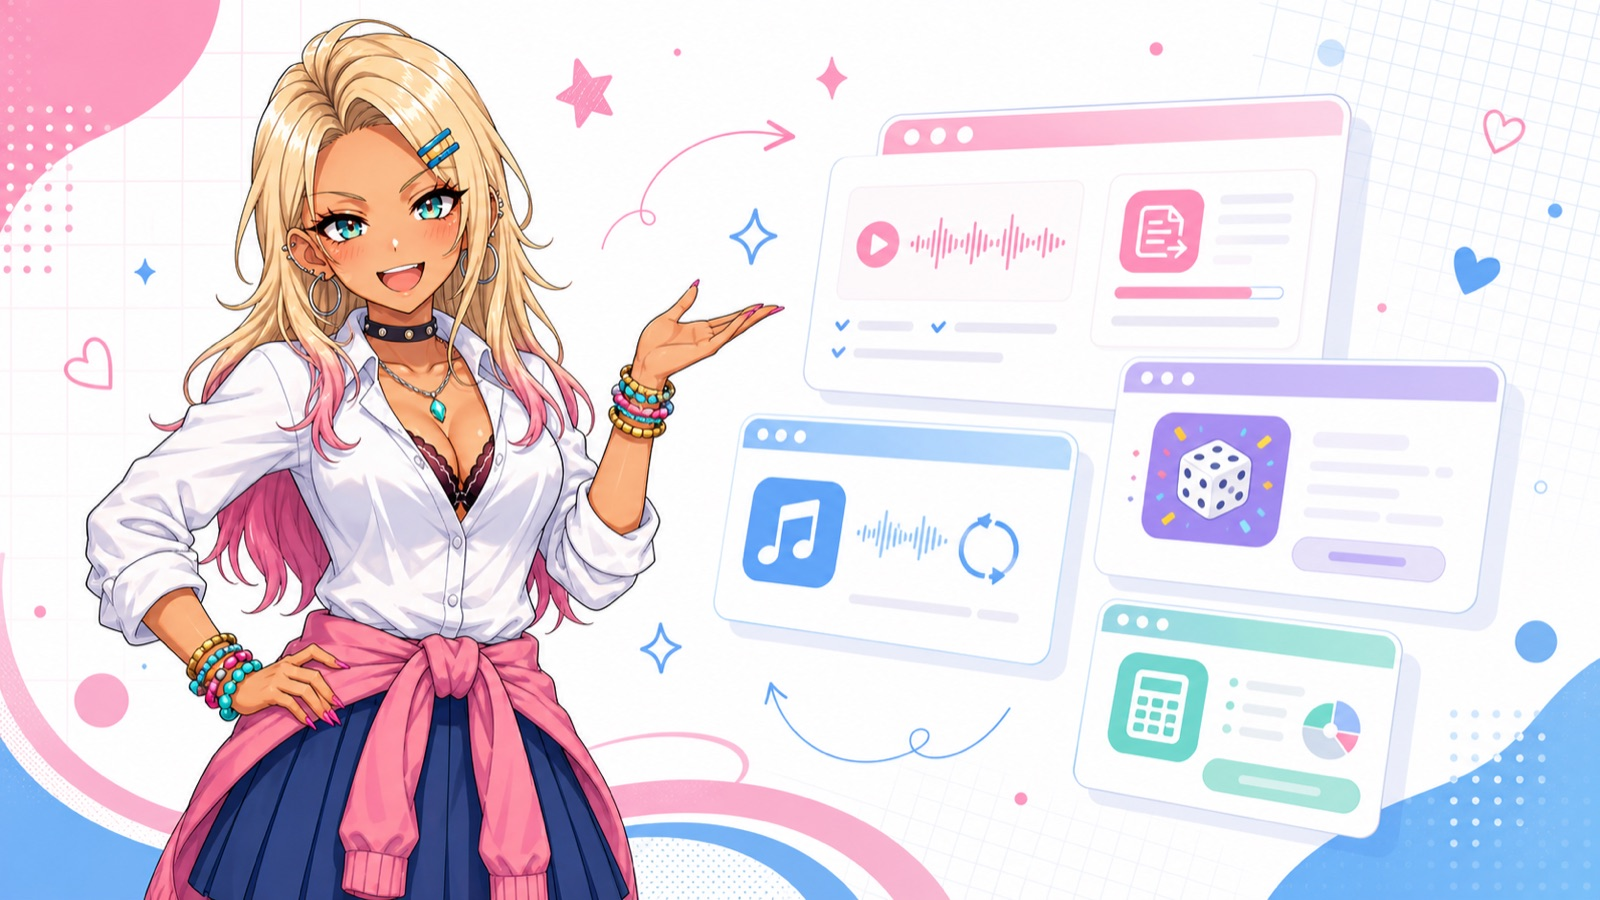
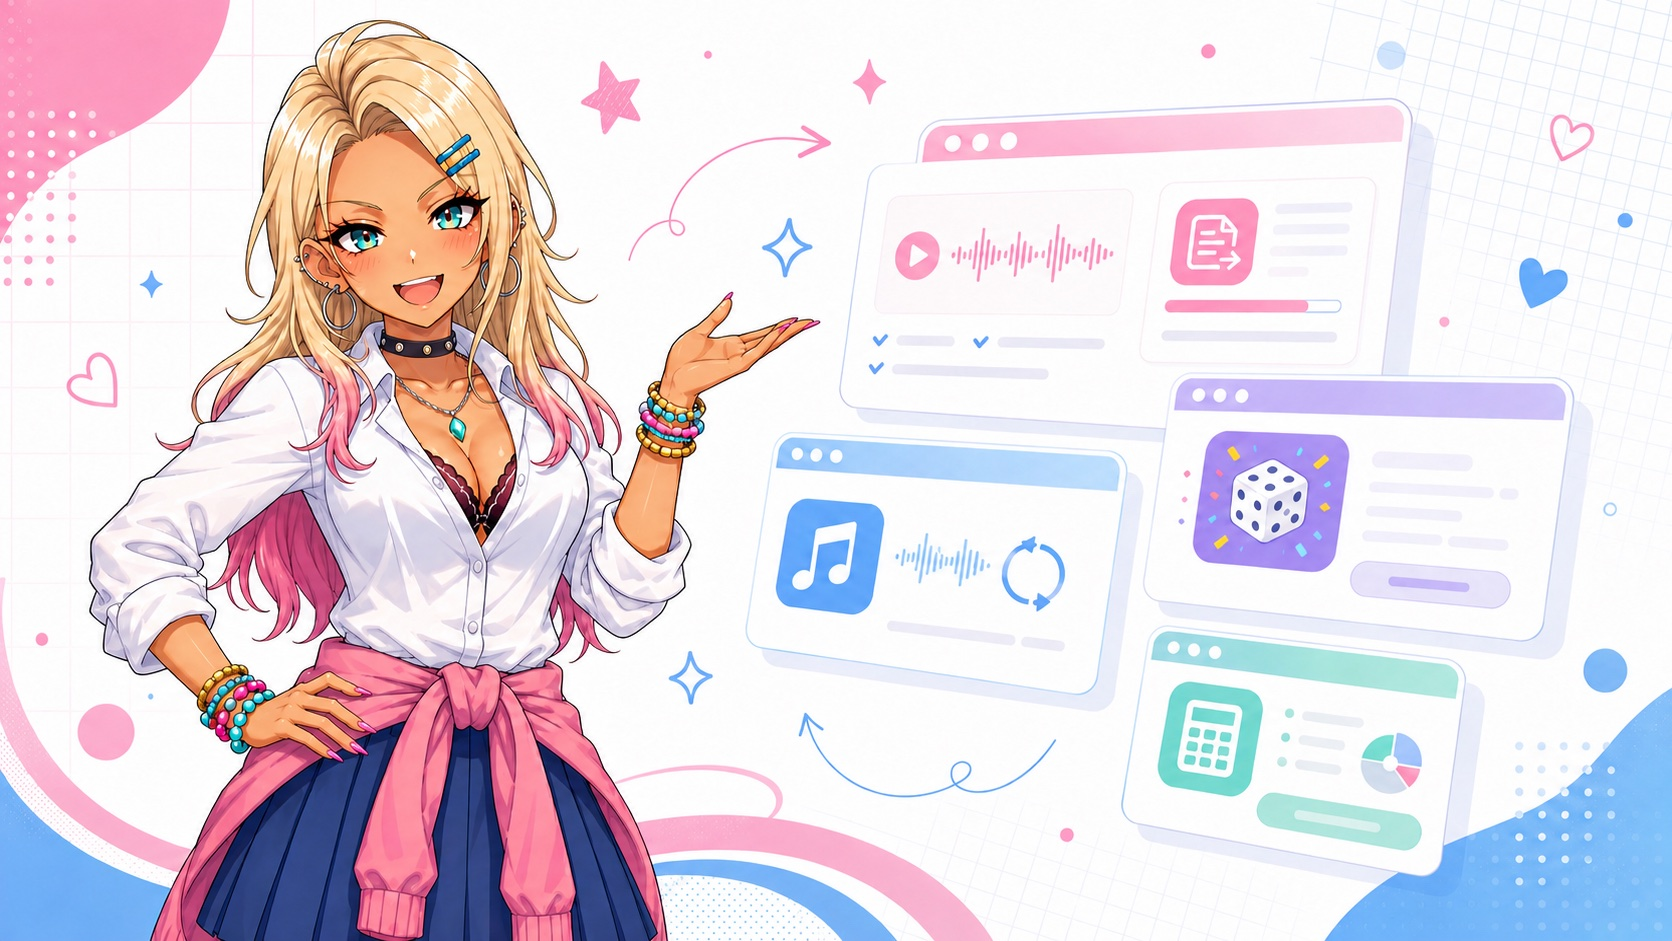
feat: トップ画像を新ビジュアルに差し替え＆コピー/デザインをギャル仕様に
- ヒーロー画像を新しいキャラビジュアルに更新（1672x941に合わせて寸法調整）
- 見出し・本文・ボタンのコピーをギャル調に強化
- 見出し/ハイライトをグラデ文字、CTAをグラデ+グローに
- カード角丸を拡大、背景にピンク/パープルのグラデを追加
- CSSキャッシュ対策でバージョンクエリを更新

diff --git a/index.html b/index.html
@@ -27,7 +27,7 @@
   <link rel="preconnect" href="https://fonts.gstatic.com" crossorigin />
   <link rel="preload" as="image" href="abs_mart_og_generated.jpg" fetchpriority="high" />
   <link href="https://fonts.googleapis.com/css2?family=Inter:wght@400;600;700;800&family=Noto+Sans+JP:wght@400;500;700;800&display=swap" rel="stylesheet" />
-  <link rel="stylesheet" href="style.css?v=20260615-pop2" />
+  <link rel="stylesheet" href="style.css?v=20260619-gal" />
   <script type="application/ld+json">
   {
     "@context": "https://schema.org",
@@ -101,18 +101,18 @@
     <section id="hero">
       <div class="hero-inner">
         <div class="hero-visual" data-reveal data-reveal-delay="90">
-          <img src="abs_mart_og_generated.jpg" alt="ABS MartのイメージキャラクターとWebツールのビジュアル" width="1600" height="900" fetchpriority="high" decoding="async" />
+          <img src="abs_mart_og_generated.jpg" alt="ABS MartのイメージキャラクターとWebツールのビジュアル" width="1672" height="941" fetchpriority="high" decoding="async" />
           <div class="hero-copy">
             <p class="eyebrow" data-reveal data-reveal-delay="60" lang="en"><span class="dot" aria-hidden="true"></span>ABS Mart — Browser Tools</p>
             <h1 class="hero-title" data-reveal data-reveal-delay="120">
-              その面倒、<br /><span class="hl hl-pink">ブラウザだけ</span>で<span class="hl hl-blue">秒で終わる♡</span>
+              てかその面倒、<br /><span class="hl hl-pink">ブラウザだけ</span>で<span class="hl hl-blue">ガチ秒で終わる♡</span>
             </h1>
             <p class="hero-lead" data-reveal data-reveal-delay="200">
-              字幕も音声も、抽選もお金の管理も全部おまかせ♡ インストールも登録もマジ不要、ブラウザだけで使える無料ツール集だよ〜！
+              字幕も音声も、抽選もお金の管理もぜーんぶおまかせでよくない？♡ インストールも登録もマジ要らんし、ブラウザだけでいけちゃう無料ツール集なんだけど〜！神じゃん？🫶
             </p>
             <div class="hero-actions" data-reveal data-reveal-delay="260">
               <a href="#works" class="btn btn-primary btn-lg">
-                <span>とりま使ってみて♡</span>
+                <span>とりま触ってみ？♡</span>
                 <svg aria-hidden="true" viewBox="0 0 24 24"><path d="M5 12h14M13 6l6 6-6 6"/></svg>
               </a>
             </div>
@@ -148,7 +148,7 @@
       <div class="section-inner">
         <div class="section-heading center" data-reveal>
           <p class="eyebrow" lang="en">Point</p>
-          <h2 class="section-title">選んで損なし♡ 3つのポイント</h2>
+          <h2 class="section-title">選ばなきゃ損じゃん？神ポイント3つ♡</h2>
         </div>
 
         <div class="points-grid">
@@ -158,7 +158,7 @@
             </span>
             <p class="point-no">Point 01</p>
             <h3 class="point-title">インストール不要</h3>
-            <p class="point-desc">ダウンロードも設定もいらないし♡ ブラウザ開くだけで即使えるからマジ神なの。</p>
+            <p class="point-desc">ダウンロードも設定もいらんし♡ ブラウザ開くだけで即いけるとかガチ神なんだけど🫶</p>
           </article>
 
           <article class="point-card" data-reveal data-reveal-delay="80">
@@ -167,7 +167,7 @@
             </span>
             <p class="point-no">Point 02</p>
             <h3 class="point-title">軽くて速い</h3>
-            <p class="point-desc">シンプル設計でサクサク動くよ〜♡ ちょい古めのPCでもぜんぜん余裕だし！</p>
+            <p class="point-desc">シンプル設計でサクサクすぎ♡ ちょい古めのPCでもぜんぜん余裕っしょ〜！</p>
           </article>
 
           <article class="point-card" data-reveal data-reveal-delay="160">
@@ -176,7 +176,7 @@
             </span>
             <p class="point-no">Point 03</p>
             <h3 class="point-title">すべて無料</h3>
-            <p class="point-desc">ぜんぶタダで使えちゃう♡ ずーっと¥0だからお財布にも優しいの〜！</p>
+            <p class="point-desc">ぜんぶタダで使えちゃうとか優勝♡ ずーっと¥0だしお財布も大喜びじゃん〜！</p>
           </article>
         </div>
       </div>
@@ -186,7 +186,7 @@
       <div class="section-inner">
         <div class="section-heading" data-reveal>
           <p class="eyebrow" lang="en">Selected Works</p>
-          <h2 class="section-title">今使えるツールたち♡</h2>
+          <h2 class="section-title">今アツいツールたち♡</h2>
         </div>
 
         <div class="works-grid">

diff --git a/style.css b/style.css
@@ -28,9 +28,11 @@
   --shadow-sm: 0 4px 12px rgba(28, 28, 68, 0.07);
   --shadow-md: 0 12px 28px rgba(28, 28, 68, 0.1);
   --shadow-pop: 0 12px 24px rgba(255, 90, 164, 0.24);
+  --grad-gal: linear-gradient(120deg, #ff5aa4 0%, #ff6fb5 35%, #9b6cff 100%);
+  --grad-gal-soft: linear-gradient(120deg, #ffd9ec 0%, #f0e2ff 100%);
   --font-body: "Inter", "Noto Sans JP", sans-serif;
   --nav-h: 74px;
-  --radius: 8px;
+  --radius: 16px;
   --pill: 999px;
   --shell: 1360px;
   --content: 1120px;
@@ -46,7 +48,11 @@ html {
 
 body {
   min-height: 100vh;
-  background: var(--bg);
+  background:
+    radial-gradient(1100px 520px at 92% -8%, rgba(155, 108, 255, 0.12), transparent 60%),
+    radial-gradient(900px 480px at 0% 4%, rgba(255, 90, 164, 0.12), transparent 58%),
+    var(--bg);
+  background-attachment: fixed;
   color: var(--text);
   font-family: var(--font-body);
   font-size: 16px;
@@ -149,16 +155,18 @@ dd {
 }
 
 .btn-primary {
-  background: var(--pink);
+  background: var(--grad-gal);
+  background-size: 160% 160%;
   color: #ffffff;
-  box-shadow: var(--shadow-pop);
+  box-shadow: 0 14px 28px rgba(255, 90, 164, 0.32), 0 0 0 3px rgba(255, 255, 255, 0.55) inset;
+  transition: var(--transition), background-position 400ms var(--ease-out);
 }
 
 .btn-primary:hover,
 .btn-primary:focus-visible {
-  background: var(--pink-strong);
-  transform: translateY(-2px);
-  box-shadow: 0 16px 30px rgba(255, 90, 164, 0.3);
+  background-position: 100% 50%;
+  transform: translateY(-2px) scale(1.02);
+  box-shadow: 0 20px 38px rgba(155, 108, 255, 0.36), 0 0 0 3px rgba(255, 255, 255, 0.6) inset;
 }
 
 .btn-primary:hover svg {
@@ -456,11 +464,17 @@ dd {
 }
 
 .hl-pink {
-  color: var(--pink-strong);
+  background: linear-gradient(120deg, var(--pink-strong), var(--violet));
+  -webkit-background-clip: text;
+  background-clip: text;
+  color: transparent;
 }
 
 .hl-blue {
-  color: var(--blue-strong);
+  background: linear-gradient(120deg, var(--blue-strong), var(--violet));
+  -webkit-background-clip: text;
+  background-clip: text;
+  color: transparent;
 }
 
 .hero-lead {
@@ -591,6 +605,17 @@ dd {
   font-weight: 800;
   letter-spacing: 0;
   line-height: 1.2;
+}
+
+.section-heading.center .section-title::after {
+  content: "✦";
+  display: inline-block;
+  margin-left: 0.3em;
+  font-size: 0.7em;
+  background: var(--grad-gal);
+  -webkit-background-clip: text;
+  background-clip: text;
+  color: transparent;
 }
 
 /* ---------- Points ---------- */
